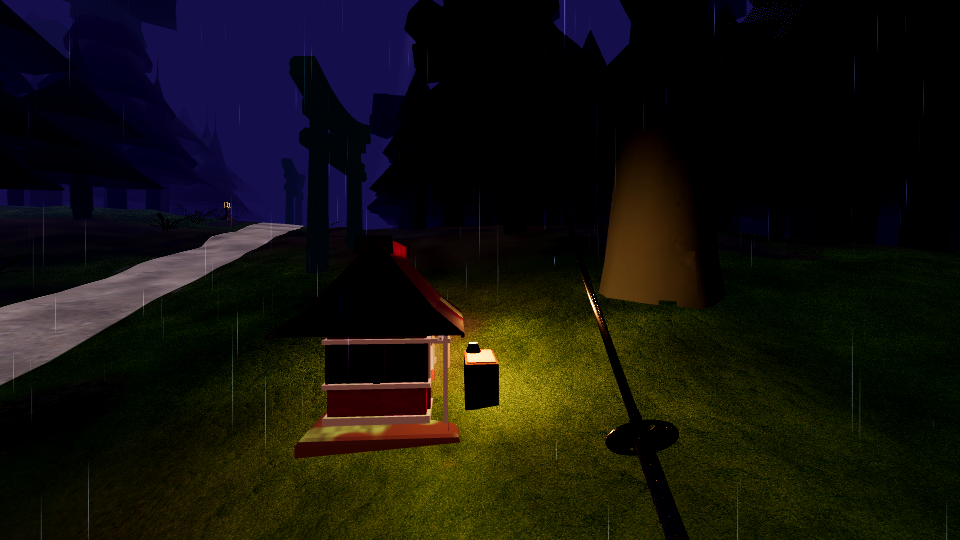
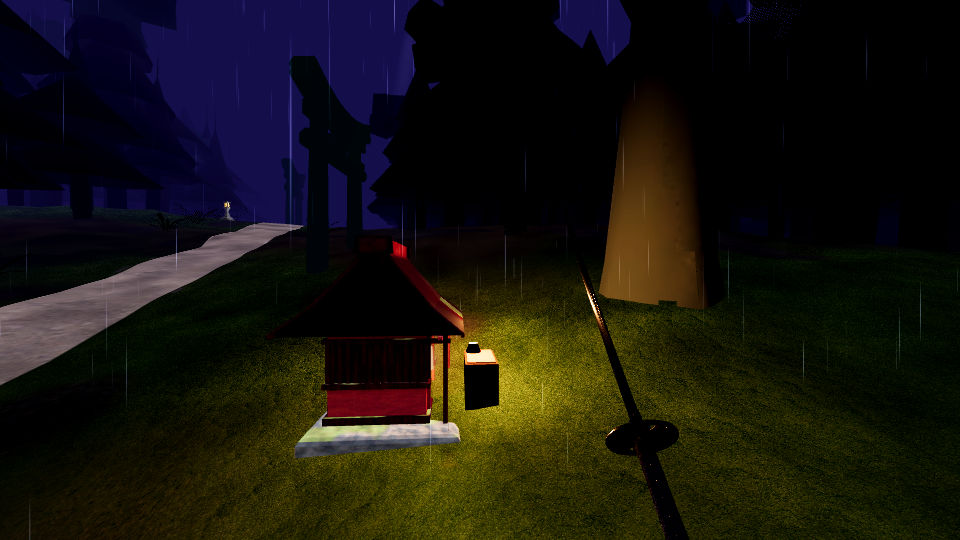
docs(n6): current state, root cause of brown lantern stone, post shots from run.tscn

diff --git a/docs/N6_SHRINE.md b/docs/N6_SHRINE.md
@@ -5,19 +5,24 @@ Czarny prymityw kapliczki zamieniony na dom z assetu, z ciepłą świecą. Latar
 ## Co się zmieniło
 
 - **Kapliczka** (`src/world/hokora_shrine.gd`): dom SamRi „Small Japanese Shrine” (CC BY 4.0,
-  2787 tris, zapieczony w metrach przez `tools/prep_forest_assets.py --scale 1.0 --atlas 2048`,
-  `assets/models/environment/shrine/shrine_samri_baked.glb`). `MODEL_OFFSET` ustawia podłoże
-  na y = 0 i front (lina shimenawa, +z) tam, gdzie oczekują stałe `ALTAR_LOCAL`, `BELL_LOCAL`, `LANTERN_LOCAL`.
-  Dom dostaje shader `wet_surface` z atlasem skanu: mokry, z omszałymi górnymi powierzchniami
-  (`moss_amount`), z lekkim `sky_lit` i `fog_rim`, żeby ciemne drewno zachowało formę w nocy.
-  Stół ofiarny, obrus, suzu i interakcja dłonią (D12) zostają bez zmian.
-- **Świeca i jedno światło**: płomień za kratą (emisja) plus `OmniLight3D` (zasięg 3.5 m,
-  energia 7, bez cieni), przed domem nad stołem, tylko dla najbliższej zapalonej kapliczki w promieniu 30 m.
-  W scenie jest najwyżej jedno takie światło (budżet ≤ 12).
+  2787 tris), zapieczony w metrach przez `tools/prep_forest_assets.py --scale 1.0 --atlas 2048`,
+  `assets/models/environment/shrine/shrine_samri_baked.glb`. `MODEL_OFFSET` ustawia podłoże na y = 0
+  i front (lina shimenawa, +z) tam, gdzie oczekują `ALTAR_LOCAL`, `BELL_LOCAL`, `LANTERN_LOCAL`.
+  Materiał: shader `wet_surface` z atlasem skanu, mokry, z omszeniem górnych powierzchni (`moss_amount`),
+  `sky_lit` 1.0 (podnosi albedo ciemnego drewna w nocy), `fog_rim` 0.6, `emission_tint` (0.9, 0.55, 0.28).
+  Stół ofiarny, obrus, suzu i interakcja dłonią (D12) bez zmian.
+- **Świeca i jedno światło**: płomień za kratą (emisja) plus `OmniLight3D` (zasięg 4.0 m, energia 8,
+  bez cieni), przed domem nad stołem, tylko dla najbliższej zapalonej kapliczki w promieniu 30 m.
+  W scenie najwyżej jedno takie światło (budżet ≤ 12).
 - **Latarnia** (`src/run/forest_world.gd`, `_lantern_mat`): `paper_gate` (nowy parametr shadera) pozwala
-  świecić tylko jasnemu, nasyconemu papierowi. Kamień i ciemne drewno nie świecą, więc kamień nie
-  wychodzi już rdzawy. Dodane: `moss_amount` 0.5 (omszałe czapy), `sky_lit` 0.3, `fog_rim` 1.0.
-  Bez dynamicznego światła.
+  świecić tylko jasnemu, nasyconemu papierowi. Kamień nie świeci. `sky_lit` 0.8, `fog_rim` 1.0,
+  `moss_amount` 0.5 (omszałe czapy). Bez dynamicznego światła.
+- **Przyczyna brązowego kamienia (naprawiona w bake'u)**: `tools/prep_forest_assets.py` układał wiersze
+  atlasu od góry, a trimesh zapisuje V odwrócone. W grze korpus latarni próbkował ciemnobrązowy
+  kwadrat (lattice, ok. 31,18,10) zamiast szarego (ok. 95,94,94). Poprawka: `uv[:,1] = 1 - (r + 1 - v) / rows`.
+  Po ponownym bake'u latarnia (3140 tris, 1.46 m) i kapliczka (2787 tris) mają poprawne komórki
+  (sprawdzone w Godot: kamień = szary kwadrat). `stone_lantern_sahir_0.png` i `shrine_samri_baked_0.png`
+  zaktualizowane.
 - Rezerwa pnia (`reserve_shrine`), placement P4 i ofuda nie zmienione.
 
 ## Testy
@@ -25,14 +30,17 @@ Czarny prymityw kapliczki zamieniony na dom z assetu, z ciepłą świecą. Latar
 - `tests/hokora_test.gd` (headless): dom to mesh z assetu (nie BoxMesh, ≤ 3000 tris, shader z atlasem);
   jedno światło świecy w całym przebiegu; zgaszona kapliczka gasi światło. Dotyk nadal otwiera 3 ofuda,
   drugi nic nie daje.
-- `tests/hokora_test.gd` (okienkowy, pixele, SKIP headless):
-  - 20 m: halo ciepłe (hue 30°) i jaśniejsze od nieba (glow 0.60, niebo 0.01): **PASS**.
-  - 3 m: średnia luminancja bryły 0.105 przy progu 0.10: **PASS**. Margines jest cienki (0.005).
-  - 10 m latarnia: papier warm (41°) i jaśniejszy od kamienia (papier 0.62, kamień 0.00): **PASS**.
+- `tests/hokora_test.gd` (okienkowy, pixele, SKIP headless), wynik ostatniego przebiegu:
+  - 20 m: halo ciepłe (hue 31°, sat 0.55), jaśniejsze od nieba (glow 0.58, niebo 0.01): **PASS**.
+  - 3 m: średnia luminancja bryły **0.125** przy progu 0.10 (cel 0.12): **PASS**. Zapas nad progiem 0.025.
+  - 10 m latarnia, papier warm (46°) i jaśniejszy od kamienia (papier 0.84 vs mediana kamienia 0.01): **PASS**.
+  - 10 m latarnia, kamień szarawy: nasycenie średniego koloru trzonu **0.11** (próg < 0.25): **PASS**.
 - `tests/d5_assets_test.gd`: licencje (w tym `assets/models/environment/shrine`): **PASS**.
-- Pomocnicze funkcje pikseli są w `tests/hokora_test.gd` (usunięto osobny `tests/shot_probe.gd`).
+- Funkcje pikseli są w `tests/hokora_test.gd`. Osobny `tests/shot_probe.gd` usunięto.
 
-Progu 0.10 nie obniżono. Wynik osiągnięto przez światło, emisję i `sky_lit`.
+Progu 3 m (0.10) nie obniżono. Wynik osiągnięto światłem, emisją i `sky_lit`.
+Pierwsza wersja testu kamienia liczyła średnią nasycenia pikseli. Zawyżał ją szum w ciemnych pikselach,
+więc przeszedłem na nasycenie średniego koloru.
 
 ## Zrzuty (`docs/n6/`)
 
@@ -40,15 +48,14 @@ Progu 0.10 nie obniżono. Wynik osiągnięto przez światło, emisję i `sky_lit
 - `post/`: stan po zmianie, z `run.tscn` (`tests/hokora_screenshots.gd`):
   00 daleko we mgle, 01 z ~3 m w nocy, 02–03 wybór ofuda, 08 latarnia z 10 m.
 
-## Słabe punkty (uczciwie)
+## Otwarte problemy
 
-- **Kamień latarni wychodzi ciemnobrązowy, nie szary.** Przyczyna leży w atlasie: części kamienia
-  próbkują ciemnobrązowy kwadrat atlasu (ok. 31,18,10), a szary kwadrat (ok. 95,94,94) nie jest
-  przypisany do korpusu. Materiał tego nie naprawi. Trzeba poprawić bake (`tools/prep_forest_assets.py`)
-  albo mapowanie UV. Nie zrobiłem tego w tej rundzie.
-- **Próg 3 m przechodzi o 0.005.** Bryła jest czytelna, ale nie jest „premium” oświetlona.
-  Ciemne drewno lepiej wygląda z ciepłym światłem niż z wyższą luminancją.
-- **Światło dotyka pobliskiego pnia** (ok. 4–5 m): tan refleks. Zmniejszony zasięgiem, ale nie wyzerowany.
-- **Ciemny ołtarz i czerwone krawędzie dachu** (kolor skanu) mogą się gryźć z resztą lasu.
+- **Bake drzew, podszytu i reszty zrobiony starym kodem.** Poprawka V dotyczy tylko nowych bake'ów.
+  Assety zapieczone wcześniej (drzewa, paprocie, toro, kamienie) mogą mieć ten sam błąd komórek
+  atlasu. Wymagają ponownego bake'u i sprawdzenia w Godot, zanim uznamy je za poprawne.
+- **Światło dotyka pobliskiego pnia** (ok. 4–5 m): tan refleks. Zasięg zmniejszony do 4 m, ale nie wyzerowany.
+- **Zapas 3 m to 0.025 nad progiem.** Ciemne drewno jest czytelne, ale wciąż nie jest mocno oświetlone.
+- **Pomiar kamienia w teście 10 m** (`stone 0.01`) bierze prostokąt z tłem, więc jest słabym miernikiem jasności.
+  Sprawdzana jest tylko szarość, a nie jasność kamienia.
 - `hokora_screenshots.gd`: „damage buff runs after the cut” zwraca FAIL także przed N6 (nie N6).
-- `xr_play_test` (`cutting the restart ema`) jest niestabilny też na czystym `HEAD`. Zaparkowany do N7.
+- `xr_play_test` (`cutting the restart ema`) jest niestabilny, także na czystym `HEAD`. Zaparkowany do N7.
